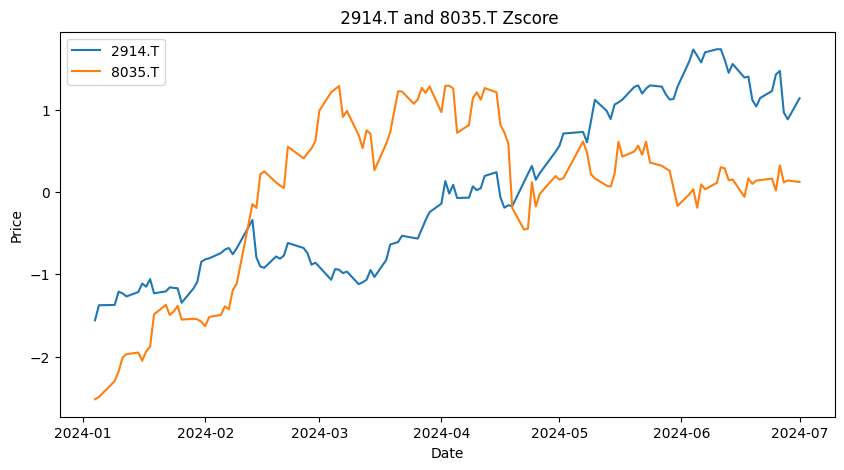
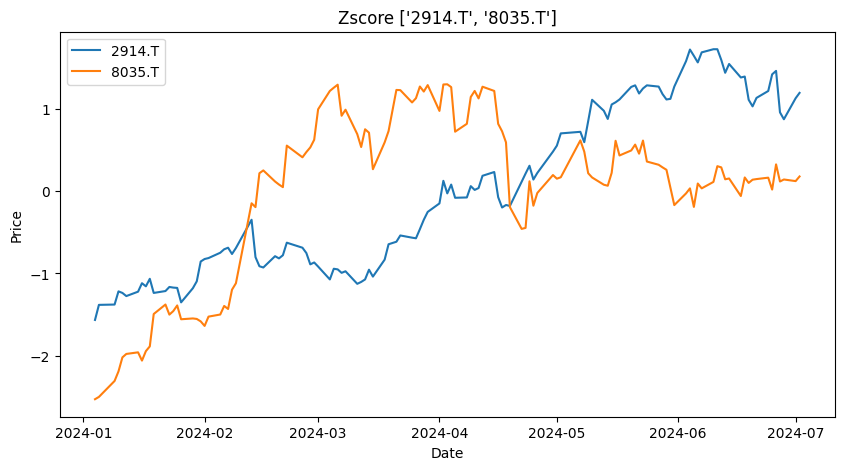
code changed [data = list->dic] optional function added

diff --git a/pages/presentation.py b/pages/presentation.py
@@ -3,36 +3,48 @@ import streamlit as st
 st.header("✏グラフ作成📈",anchor='section1',divider='rainbow')
 st.image('images/tyo.png', caption='zscore')
 st.code("""
-
 import yfinance as yf
 import pandas as pd
 import numpy as np
 import matplotlib.pyplot as plt
 
-ticker = ["2914.T","8035.T"] #比較銘柄を代入
-data0 = yf.download(ticker[0],period="6mo",interval="1d")
-data1 = yf.download(ticker[1],period="6mo",interval="1d")
+#銘柄を代入
+ticker = ["2914.T","8035.T"]
+#ticker = ["AAPL","MSFT","GOOG","AMZN","META","NVDA","TSLA"]
+#ticker =["USDJPY=X","NZDJPY=X"]
+
+count = len(ticker)
+data ={}
+
+for i in range(count):
+  data[ticker[i]]=yf.download(ticker[i],period="6mo",interval="1d").Close
 
 def zscore(x):
   stdev = np.std(x)
-  data = (x-np.mean(x))/stdev
-  return data
+  zdata = (x-np.mean(x))/stdev
+  return zdata
 
 #scipyモジュールを使用する方法
-#import scipy.stats as stats
+# import scipy.stats as stats 
 # def zscore(x):
-#   data = stats.zscore(x)
-#   return data
+#   zdata = stats.zscore(x)
+#   return zdata
+
+#相場(終値）をそのまま出力する場合
+# def zscore(x):
+#   zdata = x
+#   return zdata
 
 plt.figure(figsize=(10,5))
-plt.title(f" {ticker[0]} and {ticker[1]} Zscore")
+plt.title(f"Zscore {ticker}")
 plt.ylabel("Price")
 plt.xlabel("Date")
-plt.plot(zscore(data0.Close),label=ticker[0])
-plt.plot(zscore(data1.Close),label=ticker[1])
+
+for i in data.keys():
+  plt.plot(zscore(data[i]),label=i)
 plt.legend()
 plt.show()
-        """)
+""")
 st.write("""
 Zスコアは、以下の式で計算できます。  
 
